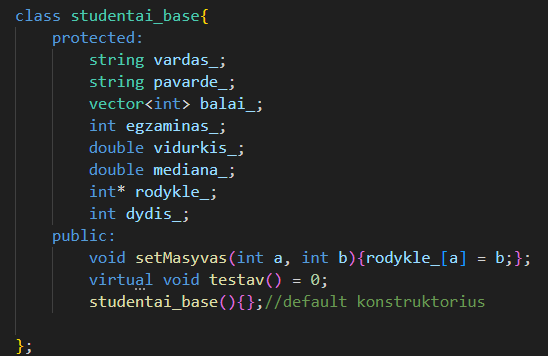
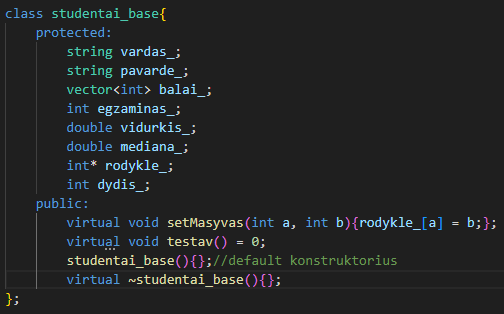
Paskutiniai pakeitimai

Changed region(s): [[0.0, 0.0287, 0.9821, 0.9172], [0.0, 0.9459, 0.0595, 1.0]]

diff --git a/funkcijosVektoriai.cpp b/funkcijosVektoriai.cpp
@@ -149,6 +149,8 @@ void klasiuTestavimas(){
     cout << "\nKopijavimo operatorius\n";
     cout << "c masyvas\n";
     c.testav();
+    cout << "b masyvas\n";
+    b.testav();
     cout << "b klases 4 elementas pakeistas i 65423\n";
     b.setMasyvas(3, 65423);
     b.testav();
@@ -160,7 +162,7 @@ void klasiuTestavimas(){
     cout << "c masyvas\n";
     c.testav();
     cout << "c klases 1 elementas pakeistas i -555\n";
-    c.setMasyvas(1, -555);
+    c.setMasyvas(0, -555);
     c.testav();
     studentai_class d = std::move(c);
     cout << "Naujai klasei d nustumta c klase su pakeistu skaicium \n"; d.testav();

diff --git a/funkcijuBazeVektoriai.h b/funkcijuBazeVektoriai.h
@@ -25,10 +25,10 @@ class studentai_base{
         int* rodykle_;
         int dydis_;
     public:
-        void setMasyvas(int a, int b){rodykle_[a] = b;};
+        virtual void setMasyvas(int a, int b){rodykle_[a] = b;};
         virtual void testav() = 0;
         studentai_base(){};//default konstruktorius
-
+        virtual ~studentai_base(){};
 };
 
 

diff --git a/readMe.md b/readMe.md
@@ -7,19 +7,16 @@
 ## Bazine klase
 ![](images/baze.png)
 
+Bazineje klaseje saugomi kintamieji, kurie yra protected, kad juos galetu panaudoti derrived klase ir kelios papildomos funkcijos iskaitant pure virtual function
 ## Derrived klase
 ![](images/derrived.png)
 
+Derrived klaseje yra laikomi get'eriai ir set'eriai, 
 ## Bazine klase yra abstrakti
 ![](images/funkcijaAbstrakti.png)
 
-Bazines klases negalima kurti, kadangi joje yra naudojama gryna virtuali funkcija
-
-## testavimas pries sutvarkant klases
-![](images/beVirtual.png)
-
-Matosi, kad neteisingai, kadangi po move komandos, rodykle nera nullptr. Tai parodo, kad funkcija naudoja default konstruktorius
-## testavimas po virtualiu funkciju
-![](images/suVirtual.png)
+Bazines klases negalima kurti, kadangi joje yra naudojama gryna virtuali funkcija, tai pavercia klase i abstrakcia
+## testavimas
+![](images/test.png)
 
 Tai parodo, kad derrived klase teisingai naudoja overloadintus konstruktorius ir operatorius
